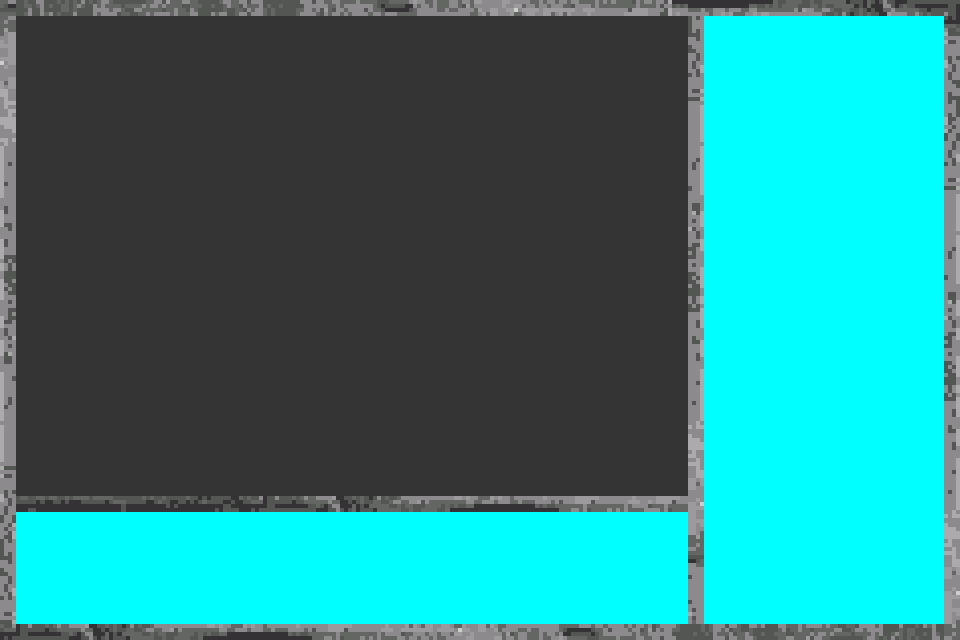
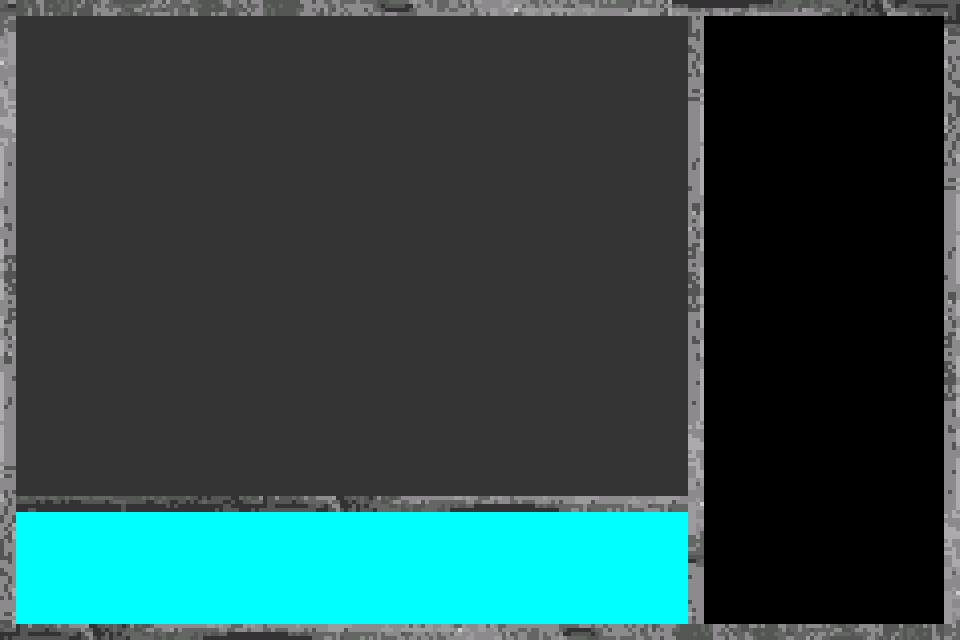
Added the visual for the characters items

Changed region(s): [[0.7188, 0.0, 1.0, 1.0]]

diff --git a/DnDProject/GameEngineCharacterItems.cpp b/DnDProject/GameEngineCharacterItems.cpp
@@ -1,5 +1,5 @@
 #include "GameEngineCharacterItems.h"
-
+#include <iostream>
 
 GameEngineCharacterItems::GameEngineCharacterItems(LoaderParameters* parameters, Character* character) : GameObject(parameters)
 {
@@ -15,6 +15,22 @@ void GameEngineCharacterItems::handleMainEvents()
 }
 void GameEngineCharacterItems::draw()
 {
+	int x = this->getParameters()->getXPos();
+	int y = this->getParameters()->getYPos();
+	vector<Item*> tempItems = character->getItems();
+	for(vector<Item*>::const_iterator iter = tempItems.begin(); iter != tempItems.end(); ++iter)
+	{
+		if(*iter != 0)
+        {
+			GameObject* gameObj = new GameObject(new LoaderParameters(x, y, 300, 25, 0, 0, (*iter)->getName()));
+			SDL_Color  color = {255,0,0};
+			TextureManager::getInstance()->loadFont(gameObj->getParameters()->getId(),Game::getInstance()->getRenderer(), gameObj->getParameters()->getId(), color);
+			gameObj->draw();
+			items.push_back(gameObj);
+			y += 25;
+		}
+
+	}
 }
 void GameEngineCharacterItems::loadTextures()
 {

diff --git a/DnDProject/TextureManager.cpp b/DnDProject/TextureManager.cpp
@@ -42,11 +42,15 @@ bool TextureManager::load(const string &fileName, string id, SDL_Renderer* rende
 
 bool TextureManager::loadFont(string id, SDL_Renderer* renderer,string message) 
 {
+	SDL_Color color = {0, 0, 0};		
+	return loadFont(id, renderer, message, color); 
+}
+bool TextureManager::loadFont(string id, SDL_Renderer* renderer,string message, SDL_Color color) 
+{
 	if (message == "") message = " ";
 
 	TTF_Init();
-	TTF_Font *font = TTF_OpenFont("res/english_111_adagio_bt.ttf", 24);
-	SDL_Color color = {0, 0, 0};		
+	TTF_Font *font = TTF_OpenFont("res/english_111_adagio_bt.ttf", 24);	
 	SDL_Surface *surface = TTF_RenderText_Blended(font, message.c_str(), color);
 	SDL_Texture *texture = SDL_CreateTextureFromSurface(renderer, surface);
 
@@ -60,7 +64,6 @@ bool TextureManager::loadFont(string id, SDL_Renderer* renderer,string message)
 	}
 	return false;
 }
-
 bool TextureManager::loadFont(string id, SDL_Renderer* renderer,string message, int size) 
 {
 	if (message == "") message = " ";

diff --git a/DnDProject/GameEngine.cpp b/DnDProject/GameEngine.cpp
@@ -12,8 +12,13 @@ GameEngine::GameEngine(LoaderParameters* parameters) : GameObject(parameters)
 {
 	gameUI = new GameObject(new LoaderParameters(0, 0, 960, 640,  0, 0, "gameUI"));
 	c = new Character("Player", 1);
+	ArmourItem* item = new ArmourItem("Test","Desc");
+	c->addItemToInventory(item);
+	HelmetItem* hel = new HelmetItem("Test","Desc");
+	c->addItemToInventory(hel);
 	map = new Map(20, 20, Position(1, 1), Position(5, 1));
 	mapView = new GameEngineMap(new LoaderParameters(16, 16, 0, 0, 0, 0, "gameEngineMap"), map, c, 1);
+	sideBar = new GameEngineSideBar(new LoaderParameters(720, 336, 0, 0, 0, 0, "gameEngineMap"),c);
 	currentView = GameEngineView::MAIN;
 
 	loadTextures();
@@ -25,9 +30,10 @@ GameEngine::~GameEngine()
 
 void GameEngine::drawMainView()
 {
+
 	gameUI->draw();
-	mapView->draw();
 	sideBar->draw();
+	mapView->draw();
 }
 
 void GameEngine::handleMainEvents()

diff --git a/DnDProject/TextureManager.h b/DnDProject/TextureManager.h
@@ -28,6 +28,7 @@ public:
 	// Loads a resource (image) to be used a sprite or spritesheet later.
 	bool load(const string &fileName, string id, SDL_Renderer* renderer);
 	bool loadFont(string id, SDL_Renderer* renderer,string message);
+	bool loadFont(string id, SDL_Renderer* renderer,string message, SDL_Color color);
 	bool loadFont(string id, SDL_Renderer* renderer,string message, int size);
 	// Singleton function.
 	static TextureManager* getInstance();

diff --git a/DnDProject/GameEngineCharacterItems.h b/DnDProject/GameEngineCharacterItems.h
@@ -2,11 +2,14 @@
 #include "GameObject.h"
 #include "Character.h"
 #include "LoaderParameters.h"
+#include "TextureManager.h"
+#include "Game.h"
 
 class GameEngineCharacterItems  : public GameObject
 {
 	private:
 		Character* character;
+		vector<GameObject*> items;
 	public:
 		GameEngineCharacterItems(LoaderParameters* parameters, Character* character);
 		~GameEngineCharacterItems(void);

diff --git a/DnDProject/GameEngineSideBar.cpp b/DnDProject/GameEngineSideBar.cpp
@@ -5,6 +5,8 @@ GameEngineSideBar::GameEngineSideBar(LoaderParameters* parameters, Character* ch
 {
 	this->character = character;
 	loadTextures();
+	this->charItemView = new GameEngineCharacterItems(parameters, character);
+	this->charStatsView = new GameEngineCharacterStats(parameters, character);
 }
 
 

diff --git a/DnDProject/Entity.h b/DnDProject/Entity.h
@@ -29,6 +29,7 @@ class Entity
 		int getLevel();
 		void addItemToInventory(Item* item);
 		void removeItemFromInventory(Item* item);
+		vector<Item*> getItems();
 		//getters
 		int getStrength();
 		int getDexterity();

diff --git a/DnDProject/Entity.cpp b/DnDProject/Entity.cpp
@@ -113,3 +113,6 @@ void Entity::setName(string name)
 {
 	this->name = name;
 }
+vector<Item*> Entity::getItems(){
+	return this->inventory;
+}
